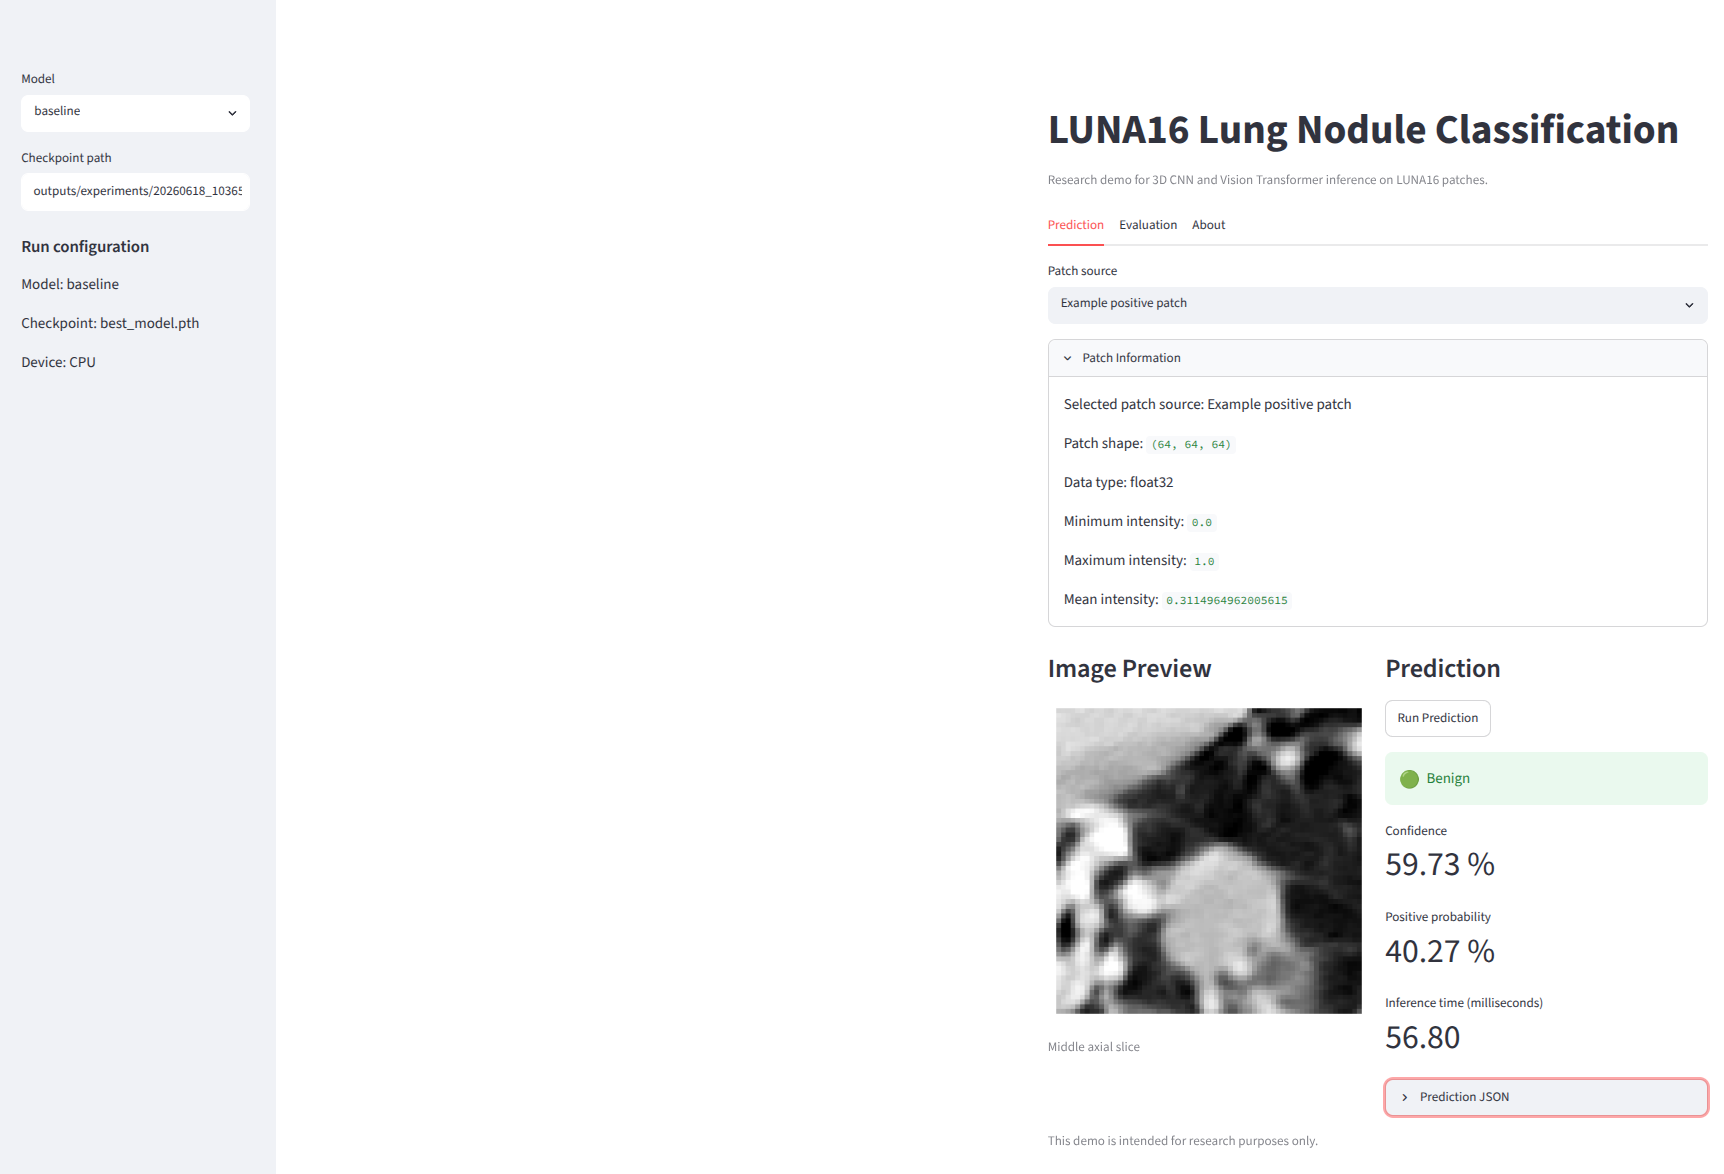
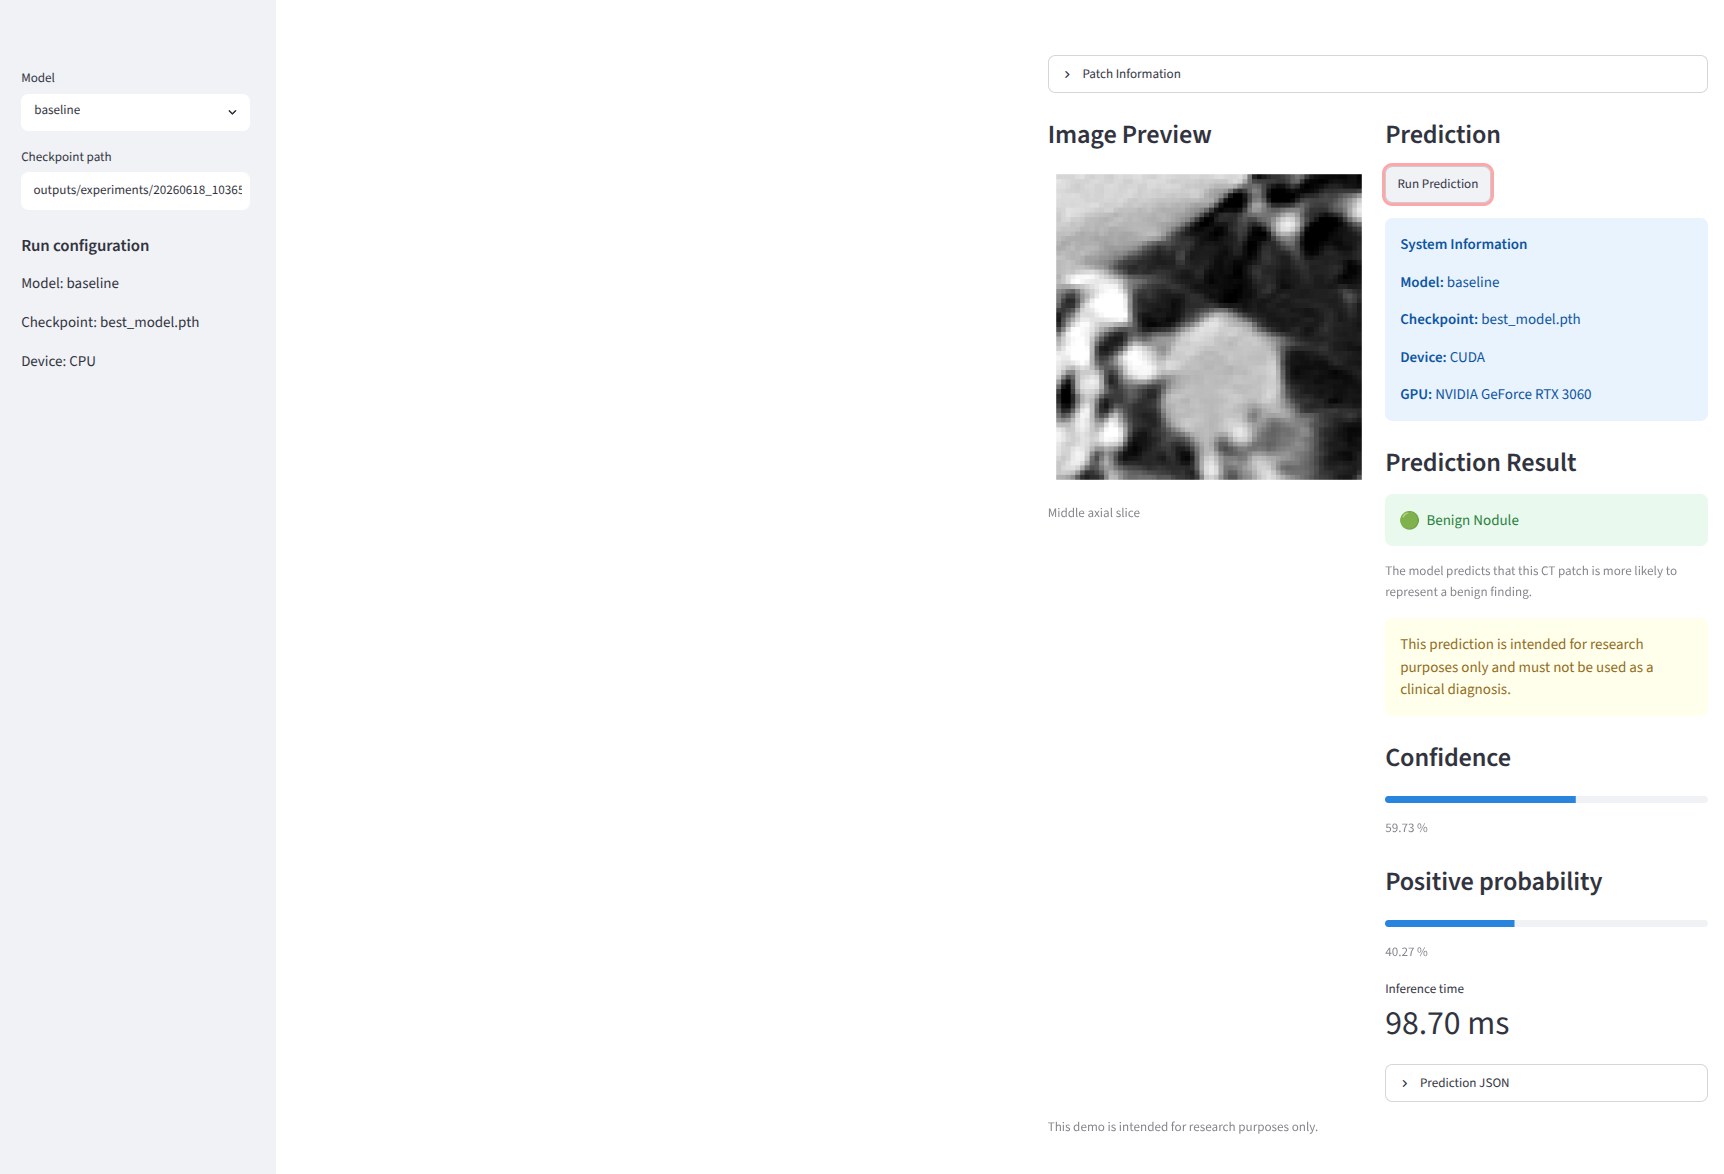
Add CUDA Docker support and enhance Streamlit demo

diff --git a/app/streamlit_app.py b/app/streamlit_app.py
@@ -199,17 +199,53 @@ def render_prediction_tab(
                 st.error(str(error))
                 return
 
-            if prediction["predicted_class"] == 0:
-                st.success("🟢 Benign")
-            else:
-                st.error("🔴 Suspicious nodule")
+            device_name = "CUDA" if torch.cuda.is_available() else "CPU"
+            system_information = [
+                "**System Information**",
+                "",
+                f"**Model:** {model_name}",
+                "",
+                f"**Checkpoint:** {checkpoint_path.name}",
+                "",
+                f"**Device:** {device_name}",
+            ]
 
-            st.metric("Confidence", f"{prediction['confidence'] * 100.0:.2f} %")
-            st.metric(
-                "Positive probability",
-                f"{prediction['positive_probability'] * 100.0:.2f} %",
+            if torch.cuda.is_available():
+                system_information.extend(
+                    ["", f"**GPU:** {torch.cuda.get_device_name(0)}"]
+                )
+
+            st.info("\n".join(system_information))
+
+            st.subheader("Prediction Result")
+
+            if prediction["predicted_class"] == 0:
+                st.success("🟢 Benign Nodule")
+                st.caption(
+                    "The model predicts that this CT patch is more likely to "
+                    "represent a benign finding."
+                )
+            else:
+                st.error("🔴 Suspicious Nodule")
+                st.caption(
+                    "The model predicts that this CT patch may contain a "
+                    "pulmonary nodule requiring further clinical review."
+                )
+
+            st.warning(
+                "This prediction is intended for research purposes only and "
+                "must not be used as a clinical diagnosis."
             )
-            st.metric("Inference time (milliseconds)", f"{inference_time_ms:.2f}")
+
+            st.subheader("Confidence")
+            st.progress(float(prediction["confidence"]))
+            st.caption(f"{prediction['confidence'] * 100.0:.2f} %")
+
+            st.subheader("Positive probability")
+            st.progress(float(prediction["positive_probability"]))
+            st.caption(f"{prediction['positive_probability'] * 100.0:.2f} %")
+
+            st.metric("Inference time", f"{inference_time_ms:.2f} ms")
 
             with st.expander("Prediction JSON"):
                 st.json(prediction)

diff --git a/README.md b/README.md
@@ -167,6 +167,14 @@ The demo provides:
 - Confidence and probability scores
 - ROC curve and confusion matrix visualization
 
+## Docker
+
+Build the CUDA-enabled Docker image:
+
+```bash
+docker build -t luna16-streamlit:latest .
+```
+
 ## Tests
 
 Run the test suite with: